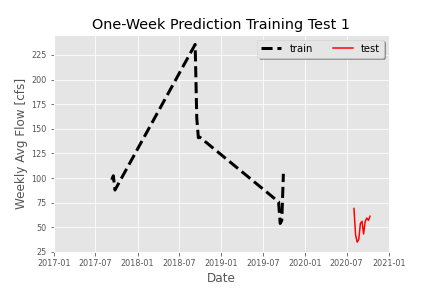
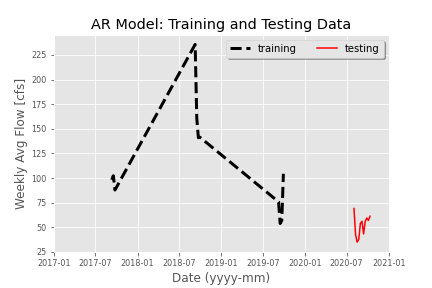
more updates

Changed region(s): [[0.2106, 0.0625, 0.8125, 0.125], [0.3912, 0.9375, 0.6319, 1.0], [0.5116, 0.1562, 0.8727, 0.2188]]

diff --git a/Submissions/Code_Review1/Noonan_HW7.py b/Submissions/Code_Review1/Noonan_HW7.py
@@ -84,6 +84,7 @@ flow_weekly['flow_tm2'] = flow_weekly['flow'].shift(2)
 # Set training and test data periods
 # [train period is September data only for 2017 - 2019]
 # [test [period is using last 10 weeks data]
+
 month1 = 9
 year_trainmin = 2017
 year_trainmax = 2019
@@ -106,6 +107,7 @@ print("Good luck with your model!")
 # %%
 # Fit a linear regression model using sklearn (using one shift)
 # Print coefficient of determination, intercept and slope for model
+
 x = train['flow_tm1'].values.reshape(-1, 1)
 y = train['flow'].values
 model = LinearRegression().fit(x, y)
@@ -115,67 +117,52 @@ print('intercept:', np.round(model.intercept_, 2))
 print('slope:', np.round(model.coef_, 2))
 
 # %%
+# Plot of training and testing data periods
+
 plt.style.use('ggplot')
 plt.rc('xtick', labelsize=8)
 plt.rc('ytick', labelsize=8)
 fig, ax = plt.subplots()
-ax.plot(train['flow'], '--k', label='train', linewidth=3)
-ax.plot(test['flow'], '-r', label='test')
-ax.set(title="One-Week Prediction Training Test 1", xlabel="Date",
+ax.plot(train['flow'], '--k', label='training', linewidth=3)
+ax.plot(test['flow'], '-r', label='testing')
+ax.set(title="AR Model: Training and Testing Data", xlabel="Date (yyyy-mm)",
        ylabel="Weekly Avg Flow [cfs]",
        xlim=[datetime.date(2017, 1, 1),
              datetime.date(2021, 1, 1)])
 ax.legend(loc='upper right', frameon=True, fancybox=True, shadow=True, ncol=2)
 fig.savefig('One-week(Test1).png')
 
+
+# Task 3 - Predict Flow with Autoregressive (AR) model
+
 # %%
-# Step 4 Make a prediction with your model
-# Predict the model response for a  given flow value
+# Predict the model response for a given flow value
+# [passes the regressor as the argument and get the
+# corresponding predicted response]
+
 q_pred_train = model.predict(train['flow_tm1'].values.reshape(-1, 1))
 q_pred_test = model.predict(test['flow_tm1'].values.reshape(-1, 1))
-print(q_pred_test)
-print(q_pred_train)
 
 # %%
-# input = pd.Series([56,67])
-# q_pred_test = model.predict(input.values.reshape(-1, 1))
-# print(q_pred_test)
+# Plot comparison of simulated and observed flows
+# Save figure to working folder as PNG file
 
-# # %%
-# # you could also predict the q for just a single value like this
-# last_week_flow = np.array([56,67])
-# prediction = model.intercept_ + model.coef_ * last_week_flow
-# prediction2 = model.intercept_ + model.coef_ * prediction
-# print(prediction)
-# print(prediction2)
-
-# %%
-# you could also predict the q for just a single value like this
-last_week_flow = 56
-
-test = predictions(last_week_flow)
-print(test)
-
-
-# %%
-# for flow in range(100):
-#         predictions(flow)
-
-
-# %%
-# 3. Line  plot comparison of predicted and observed flows
 fig, ax = plt.subplots()
 ax.plot(train['flow'], '-k', linewidth=2, label='observed')
 ax.plot(train.index, q_pred_train, ':r', linewidth=3,
         label='simulated')
 ax.set(title="Observed Flow vs. Simulated Flow",
-       xlabel="Model Duration Period", ylabel="Weekly Avg Flow [cfs]")
+       xlabel="Model Duration Period (yyyy-mm)",
+       ylabel="Weekly Avg Flow [cfs]")
 ax.legend(frameon=True, fancybox=True, shadow=True)
 
 fig.savefig('One-week(Test1)_Predict-vs-observed.png')
 
-# 5. Scatter plot of t vs t-1 flow with normal axes
+
 # %%
+# Plot comparison of t vs t-1 flow
+# Save figure to working folder as PNG file
+
 fig, ax = plt.subplots()
 ax.scatter(train['flow_tm1'], train['flow'], marker='o',
            color='mediumvioletred', label='observations')
@@ -185,23 +172,38 @@ ax.plot(np.sort(train['flow_tm1']), np.sort(q_pred_train),
 ax.text(50, 175, "x(t) = 0.7 * x(t-1) + 31.95", fontsize=10)
 ax.text(50, 155, "r^2 = 0.76", fontsize=10)
 ax.legend(frameon=True, fancybox=True, shadow=True)
+
 fig.savefig('One-week(Test1)_(t-vs-(t-1)).png')
 
 
-# WEEKLY FORECAST WEEK 6
-# ----------------------------------------------
-# %%
-data
+# WEEKLY FORECAST WEEK 7
+# ---------------------------
+# AR Model
 
-# 1week forecast - look at last 7 days
 # %%
+# Predict one-week and two-week flow values
+#  using last week's average flow value and the AR model
+
+last_week_flow = np.mean(data.tail(7))['flow']
+one_two_flow = predictions(last_week_flow)
+
+print("Last week's average flow (cfs) was", last_week_flow)
+print("The one-week and two-week predicted"
+      " flow values from the AR model are:", one_two_flow)
+
+# Jill's Code
+
+# %%
+# One-week forecast
+# Look at statistics for last 7 days and
+# use mean to forecast the one-week flow
+
 data_weekly = data.tail(7)
-data_weekly
+print("The one-week flow prediction using Jill's code is:",
+      np.mean(data_weekly)["flow"])
 
-# %%
-# look at prior week stats
+# Save table of statistics as PNG for markdown
 df = data_weekly[["flow"]].describe()
-print(df)
 dfi.export(df, "Last7days-stats.png")
 
 # %%
